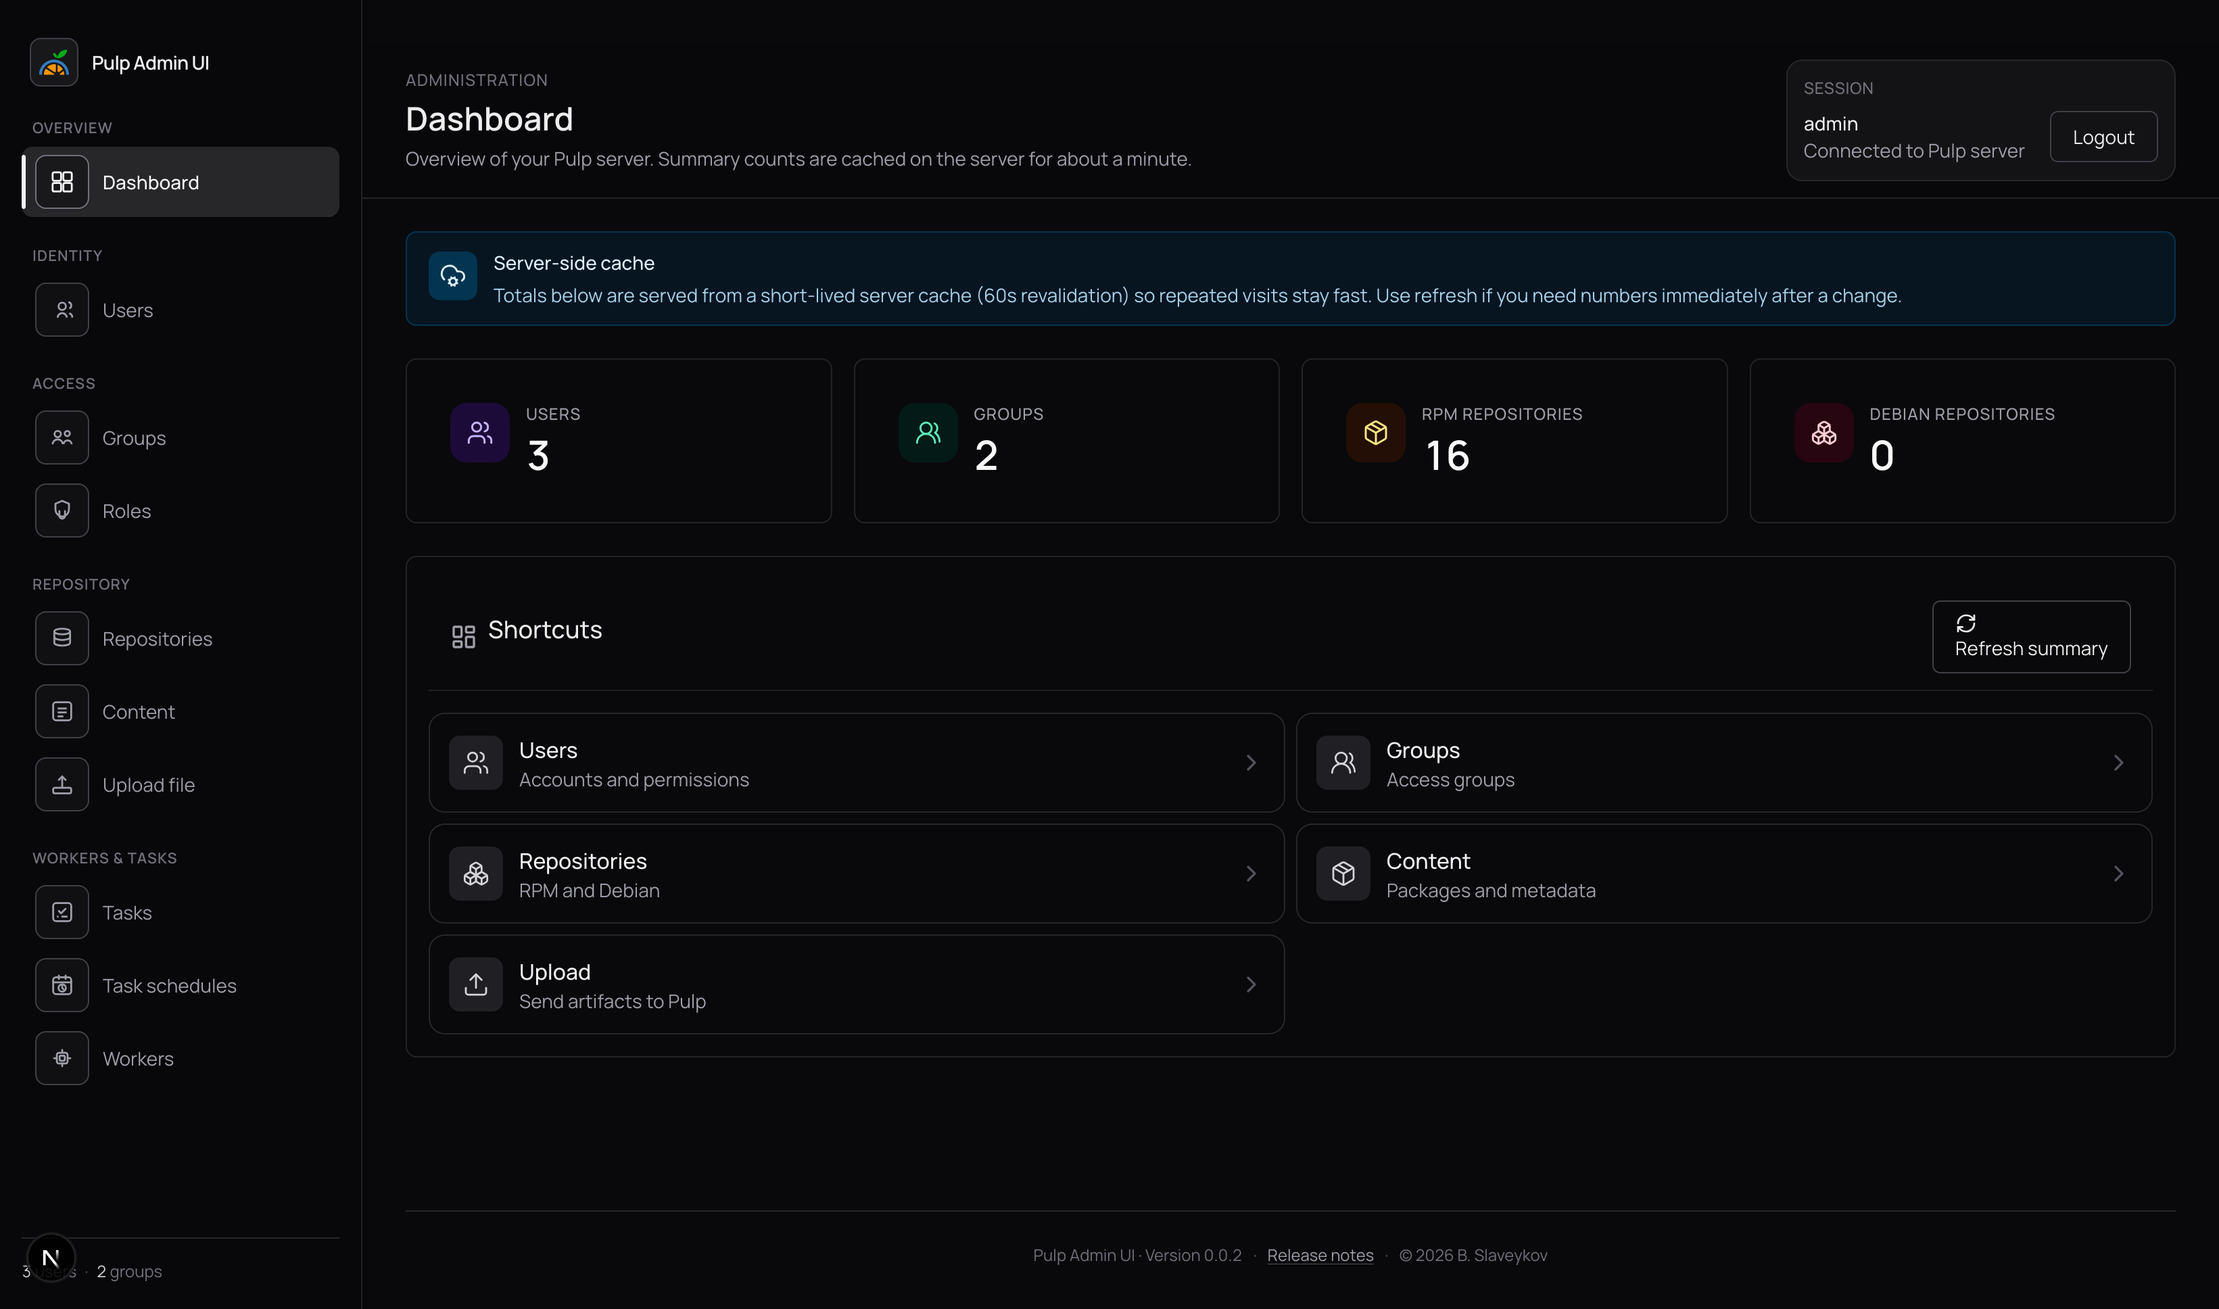
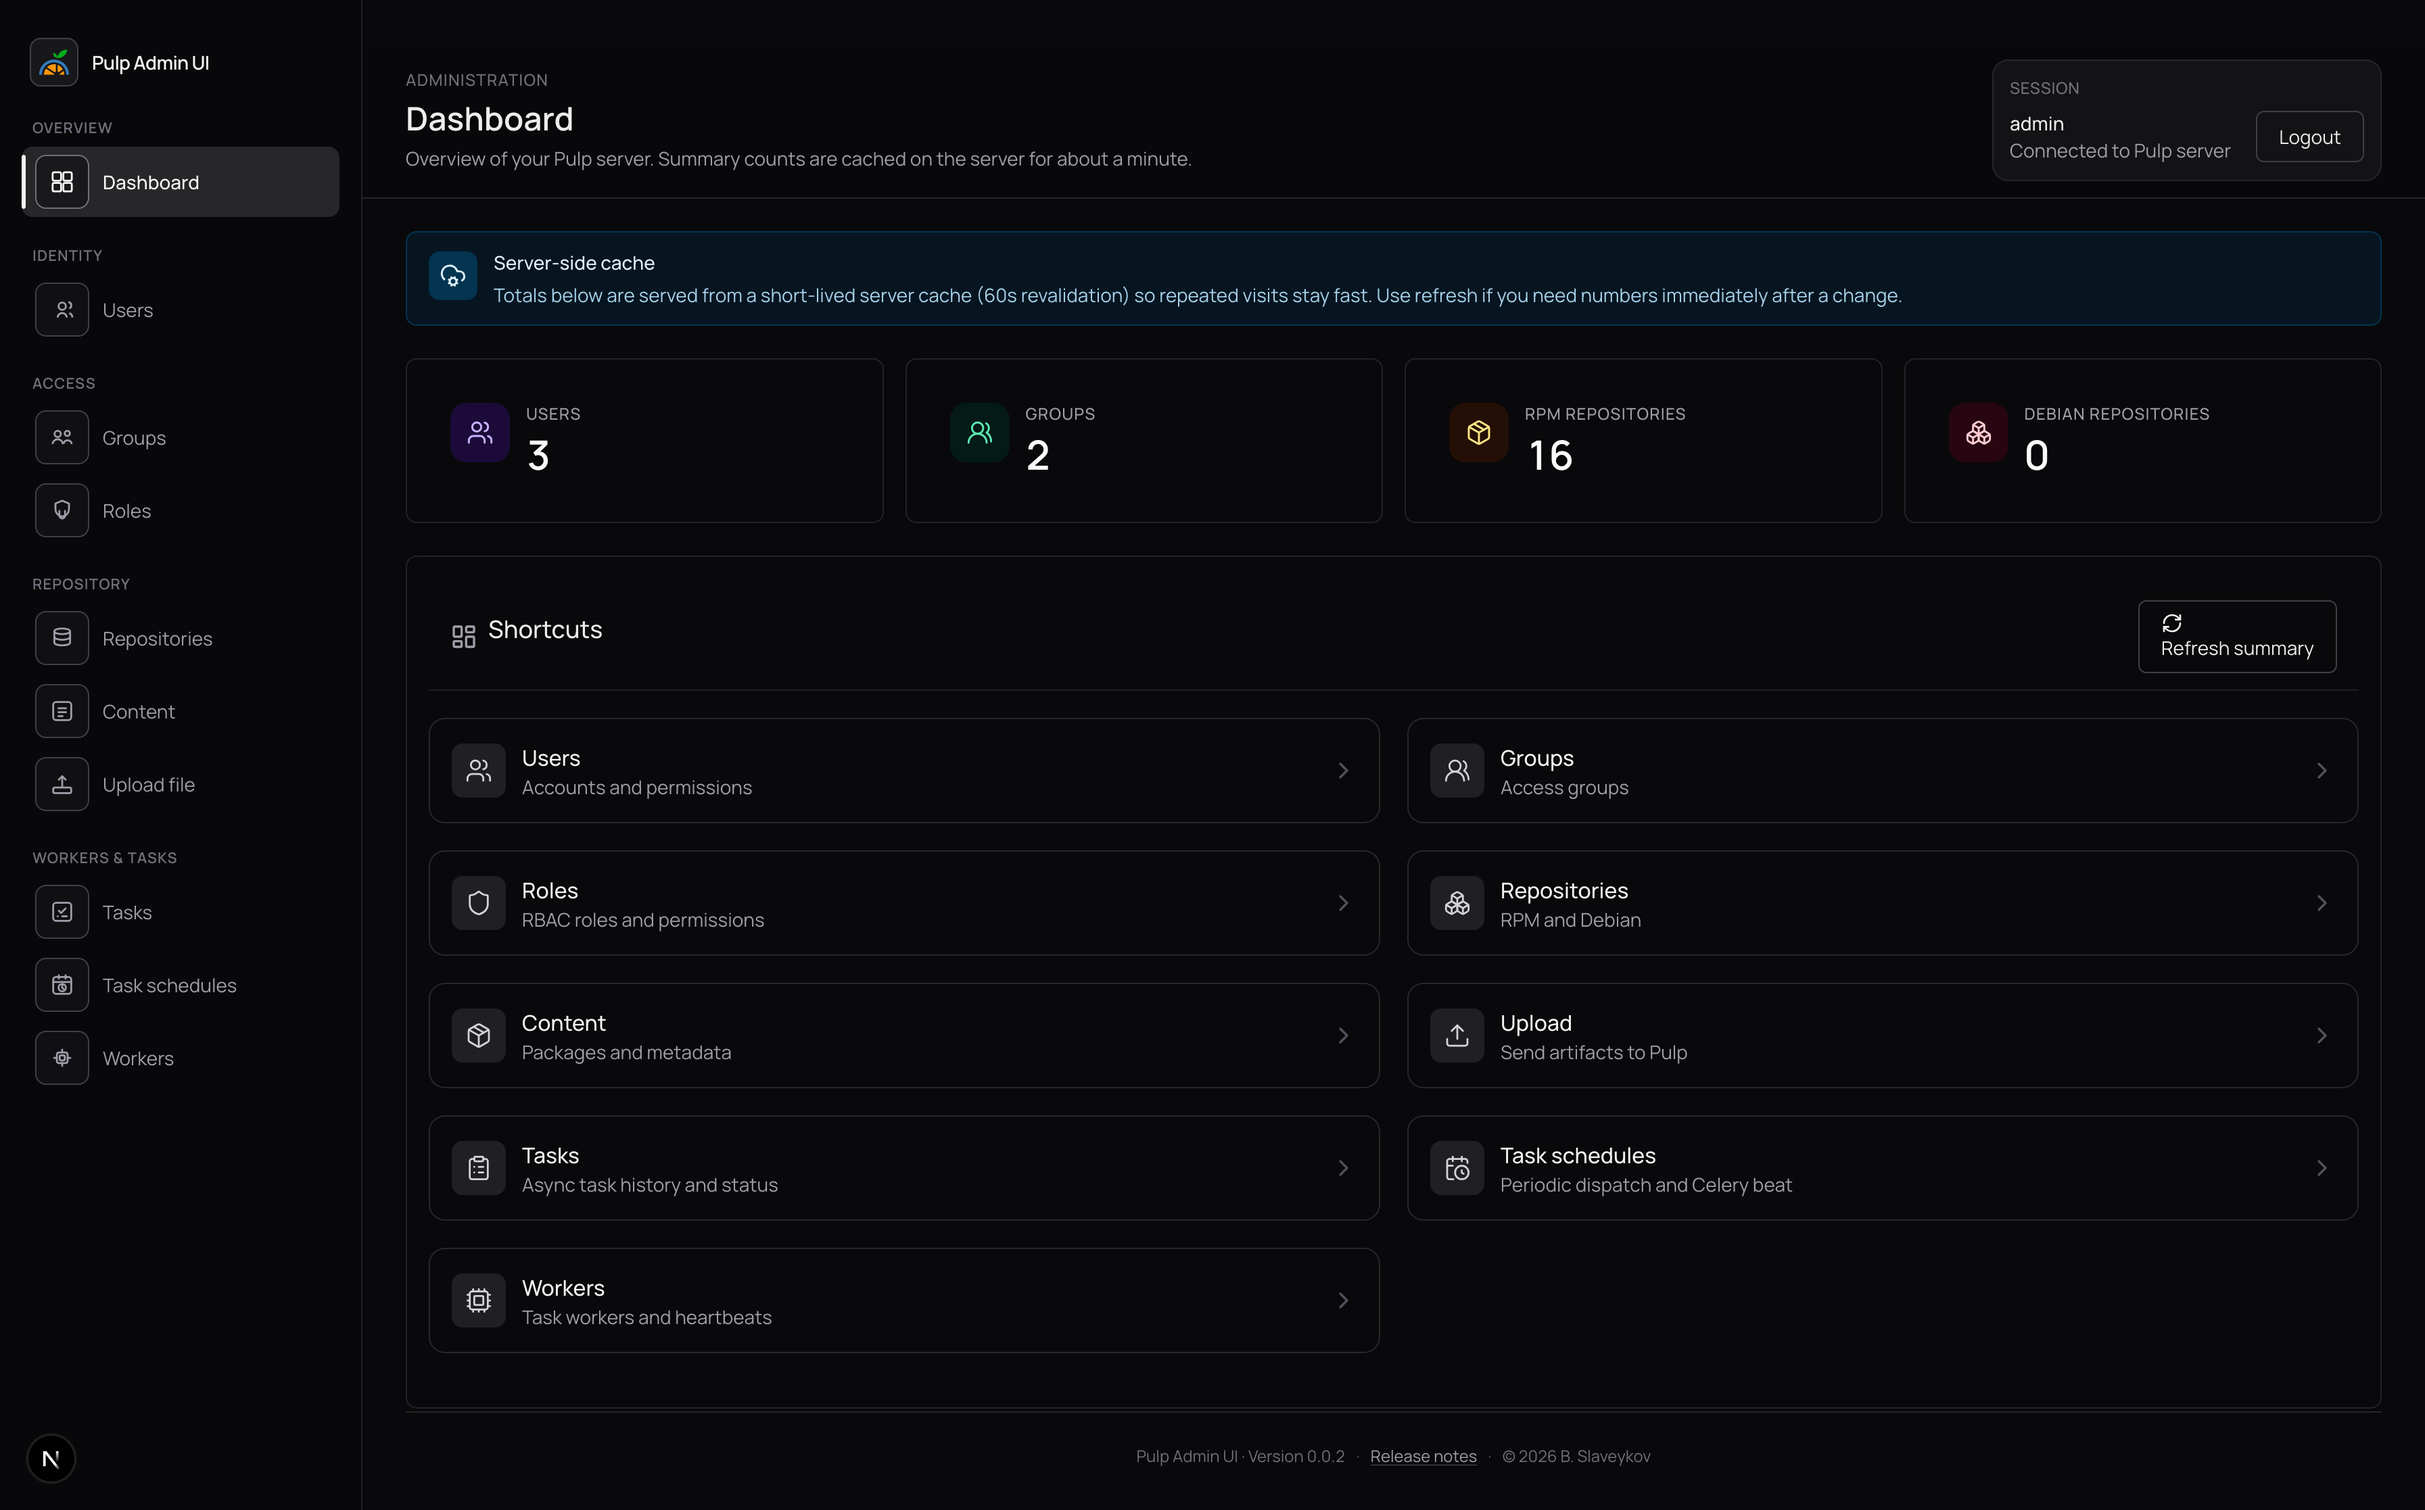
up

diff --git a/components/pulp/management-sidebar.tsx b/components/pulp/management-sidebar.tsx
@@ -288,13 +288,6 @@ export function ManagementSidebar({ usersCount, groupsCount }: ManagementSidebar
           ))}
         </nav>
 
-        <div className="mt-auto border-t border-zinc-200/70 pt-4 text-xs text-zinc-500 dark:border-zinc-800 dark:text-zinc-500">
-          <p>
-            <span className="tabular-nums text-zinc-700 dark:text-zinc-300">{usersCount}</span> users
-            <span className="mx-1.5 text-zinc-300 dark:text-zinc-600">·</span>
-            <span className="tabular-nums text-zinc-700 dark:text-zinc-300">{groupsCount}</span> groups
-          </p>
-        </div>
       </div>
     </aside>
   );
